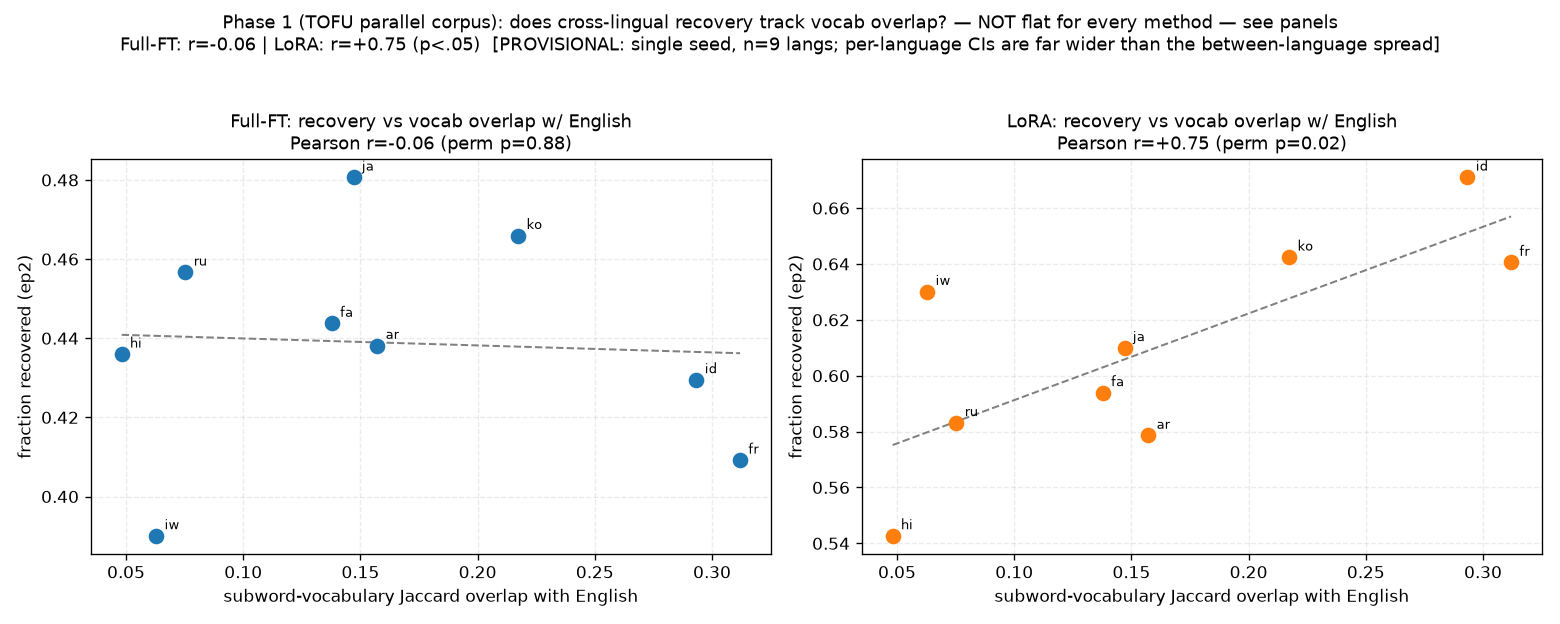
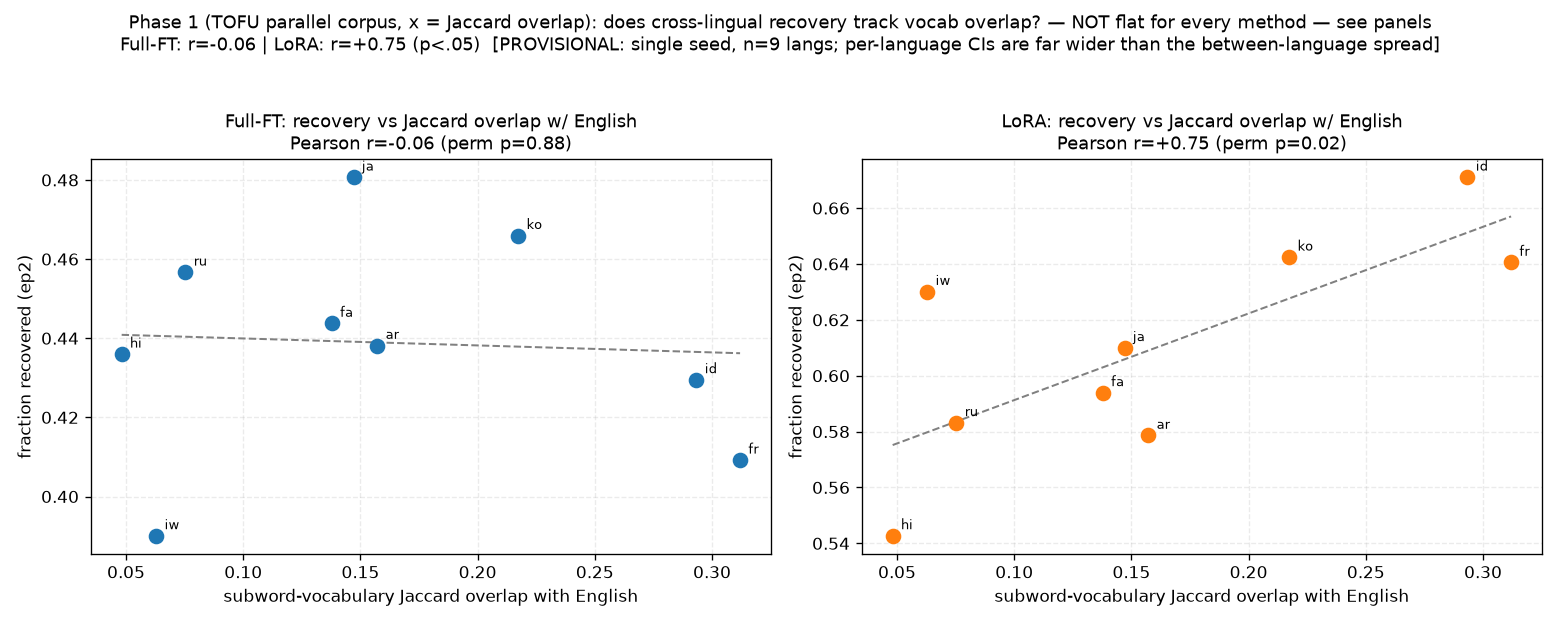
phase1: plot the overlap coefficient as its own axis
The LoRA-vs-Jaccard correlation (r=+0.75 TOFU / +0.70 FLORES, both p<.05) is the one
Phase 1 result that looks like a finding, and the reason to distrust it was buried as a
number in a table: swap Jaccard's union denominator for min(|A|,|B|) and it collapses to
+0.04 / +0.10 on the same corpus, same tokenizer, same recovery values. That argument
deserves a panel.

Added --axis jaccard|overlap to both scatter scripts rather than forking them, so the two
denominators are plotted by identical code and cannot drift apart. Default is unchanged
and still writes the original filenames; --axis overlap writes
phase1_overlap_coef{,_flores}.png.

Under the overlap coefficient BOTH panels are flat on BOTH corpora (TOFU +0.04/+0.04,
FLORES -0.28/+0.10), and the headline flips itself to "flat for both" because the verdict
is computed, not asserted. The leverage objection also does not transfer: the overlap
coefficient spreads the languages across 0.22-0.66 (TOFU) instead of jamming seven of
nine below 0.07, so these panels are not two points pulling a line.

Hindi is the whole argument in one point -- lowest Jaccard in the set (0.048) and nearly
the highest overlap coefficient (0.656), same intersection, opposite ranking. A result
that survives only one denominator is a result about the denominator.

Claude-Session: https://claude.ai/code/session_01EURqZL7jd7Jw7i1NWkFUF5

Changed region(s): [[0.0923, 0.0, 0.9231, 0.0609], [0.1231, 0.1827, 0.4, 0.2131], [0.6462, 0.1827, 0.8923, 0.2131]]

diff --git a/studies/crosslingual_recovery/plots/phase1_vocab_overlap.py b/studies/crosslingual_recovery/plots/phase1_vocab_overlap.py
@@ -25,9 +25,19 @@ a table, and scatter plots -> figures/phase1_vocab_overlap.png.
 CAVEAT (from the plan): recovery is single-seed, n=10 languages -> low power. Treat
 r/p as PROVISIONAL until the item-8 bootstrap CIs land; this is the first pass.
 
-    python studies/crosslingual_recovery/plots/phase1_vocab_overlap.py
+
+AXIS (--axis jaccard|overlap). Jaccard is CLC's Eq. 7 and the default. The OVERLAP
+COEFFICIENT |A n B| / min(|A|,|B|) is the same intersection under a different denominator,
+and it is where the LoRA correlation dies (r=+0.75 -> +0.04 here; +0.70 -> +0.10 on
+FLORES). Jaccard's union denominator penalises a language for owning many tokens English
+never uses, so it partly scores VOCABULARY SIZE rather than sharing -- Hindi is the
+clearest case, lowest Jaccard in the set but near the top on the overlap coefficient.
+Plotting both is the robustness check: a result that holds under only one denominator is
+a result about the denominator.
+
+    python studies/crosslingual_recovery/plots/phase1_vocab_overlap.py [--axis overlap]
 """
-import json, sys, random, math
+import argparse, json, sys, random, math
 from pathlib import Path
 
 _r = Path(__file__).resolve()
@@ -114,7 +124,15 @@ def perm_p(x, y, stat=pearson, B=10000):
     return c / B
 
 
-def main():
+AXIS_META = {
+    "jaccard": ("jac", "subword-vocabulary Jaccard overlap with English",
+                "Jaccard overlap", "phase1_vocab_overlap.png"),
+    "overlap": ("ovl", "subword-vocab OVERLAP COEFFICIENT with English  |A n B| / min(|A|,|B|)",
+                "overlap coefficient", "phase1_overlap_coef.png"),
+}
+
+
+def main(axis="jaccard"):
     if not MERGED.exists():
         print("missing parallel corpus:", MERGED); return
     V = vocab_sets()
@@ -151,41 +169,45 @@ def main():
     import matplotlib
     matplotlib.use("Agg")
     import matplotlib.pyplot as plt
+    X = {"jaccard": jac, "overlap": ovl}[axis]
+    _key, xlabel, short, fname = AXIS_META[axis]
     fig, axs = plt.subplots(1, 2, figsize=(13, 5.2))
     for ax, m in zip(axs, FILES):
-        x = [jac[l] for l in LANGS]; y = [rec[m][l] for l in LANGS]
+        x = [X[l] for l in LANGS]; y = [rec[m][l] for l in LANGS]
         ax.scatter(x, y, s=70, color="#1f77b4" if m == "Full-FT" else "#ff7f0e", zorder=3)
         for l in LANGS:
-            ax.annotate(l, (jac[l], rec[m][l]), textcoords="offset points", xytext=(5, 4), fontsize=8)
+            ax.annotate(l, (X[l], rec[m][l]), textcoords="offset points", xytext=(5, 4), fontsize=8)
         # least-squares fit line
         n = len(x); mx = sum(x)/n; my = sum(y)/n
         b1 = sum((a-mx)*(c-my) for a, c in zip(x, y)) / sum((a-mx)**2 for a in x)
         b0 = my - b1*mx
         xs = [min(x), max(x)]; ax.plot(xs, [b0+b1*v for v in xs], "--", color="grey", lw=1.2)
-        ax.set_title(f"{m}: recovery vs vocab overlap w/ English\n"
+        ax.set_title(f"{m}: recovery vs {short} w/ English\n"
                      f"Pearson r={pearson(x,y):+.2f} (perm p={perm_p(x,y):.2f})", fontsize=11)
-        ax.set_xlabel("subword-vocabulary Jaccard overlap with English", fontsize=10)
+        ax.set_xlabel(xlabel, fontsize=10)
         ax.set_ylabel("fraction recovered (ep2)", fontsize=10)
         ax.grid(True, alpha=0.25, ls="--"); ax.set_axisbelow(True)
     # The headline follows the PANELS. It previously asserted "flat line => interlingua"
     # above a right-hand panel showing r=+0.75 at p=0.02 -- a figure arguing with itself.
-    rs = {m: (pearson([jac[l] for l in LANGS], [rec[m][l] for l in LANGS]),
-              perm_p([jac[l] for l in LANGS], [rec[m][l] for l in LANGS])) for m in FILES}
+    rs = {m: (pearson([X[l] for l in LANGS], [rec[m][l] for l in LANGS]),
+              perm_p([X[l] for l in LANGS], [rec[m][l] for l in LANGS])) for m in FILES}
     flat = all(pv >= 0.05 for _, pv in rs.values())
     lead = ("flat for both => recovery not explained by vocab-sharing"
             if flat else "NOT flat for every method — see panels")
     detail = " | ".join(f"{m}: r={r:+.2f}" + ("" if pv >= 0.05 else " (p<.05)")
                         for m, (r, pv) in rs.items())
-    fig.suptitle("Phase 1 (TOFU parallel corpus): does cross-lingual recovery track vocab "
-                 f"overlap? — {lead}\n{detail}  [PROVISIONAL: single seed, n=9 langs; "
+    fig.suptitle(f"Phase 1 (TOFU parallel corpus, x = {short}): does cross-lingual recovery "
+                 f"track vocab overlap? — {lead}\n{detail}  [PROVISIONAL: single seed, n=9 langs; "
                  "per-language CIs are far wider than the between-language spread]",
                  fontsize=11)
     fig.tight_layout(rect=(0, 0, 1, 0.95))
     FIGS.mkdir(parents=True, exist_ok=True)
-    out = FIGS / "phase1_vocab_overlap.png"
+    out = FIGS / fname
     fig.savefig(out, dpi=120)
     print(f"\nscatter -> {out}")
 
 
 if __name__ == "__main__":
-    main()
+    _a = argparse.ArgumentParser(description=__doc__.split("\n")[0])
+    _a.add_argument("--axis", choices=list(AXIS_META), default="jaccard")
+    main(_a.parse_args().axis)

diff --git a/studies/crosslingual_recovery/plots/phase1_vocab_overlap_flores.py b/studies/crosslingual_recovery/plots/phase1_vocab_overlap_flores.py
@@ -20,12 +20,19 @@ Inputs (all LOCAL, CPU-only — runs on the login node; tokenizer needs no torch
   - Qwen3 tokenizer.
   - recovery: results/relearn/crosslingual_deep/ (fraction recovered at ep2).
 
-    python studies/crosslingual_recovery/plots/phase1_vocab_overlap_flores.py
+AXIS (--axis jaccard|overlap). Jaccard is CLC's Eq. 7 and the default. The OVERLAP
+COEFFICIENT |A n B| / min(|A|,|B|) is the same intersection under a different denominator,
+and it is where the LoRA correlation dies (r=+0.70 -> +0.10 here). Jaccard's union
+denominator penalises a language for owning many tokens English never uses, so it partly
+scores VOCABULARY SIZE rather than sharing. A result holding under only one denominator is
+a result about the denominator -- plotting both is the robustness check.
+
+    python studies/crosslingual_recovery/plots/phase1_vocab_overlap_flores.py [--axis overlap]
 
 CAVEAT: recovery is single-seed, n=9 langs -> low power. Provisional until the
 item-8 bootstrap CIs land.
 """
-import json, sys, random, math
+import argparse, json, sys, random, math
 from pathlib import Path
 
 _r = Path(__file__).resolve()
@@ -108,7 +115,15 @@ def perm_p(x, y, stat=pearson, B=10000):
     return c / B
 
 
-def main():
+AXIS_META = {
+    "jaccard": ("subword-vocab Jaccard overlap w/ English (FLORES-200, CLC Eq.7)",
+                "FLORES Jaccard overlap", "phase1_vocab_overlap_flores.png"),
+    "overlap": ("subword-vocab OVERLAP COEFFICIENT w/ English (FLORES-200)  |A n B| / min(|A|,|B|)",
+                "FLORES overlap coefficient", "phase1_overlap_coef_flores.png"),
+}
+
+
+def main(axis="jaccard"):
     if not FLORES.exists():
         print("missing FLORES at", FLORES); return
     tok = AutoTokenizer.from_pretrained("Qwen/Qwen3-8B")
@@ -148,20 +163,22 @@ def main():
     import matplotlib
     matplotlib.use("Agg")
     import matplotlib.pyplot as plt
+    X = {"jaccard": jac, "overlap": ovl}[axis]
+    xlabel, short, fname = AXIS_META[axis]
     fig, axs = plt.subplots(1, 2, figsize=(13, 5.2))
     rs = {}
     for ax, m in zip(axs, FILES):
-        x = [jac[l] for l in LANGS]; y = [rec[m][l] for l in LANGS]
+        x = [X[l] for l in LANGS]; y = [rec[m][l] for l in LANGS]
         ax.scatter(x, y, s=70, color="#1f77b4" if m == "Full-FT" else "#ff7f0e", zorder=3)
         for l in LANGS:
-            ax.annotate(l, (jac[l], rec[m][l]), textcoords="offset points", xytext=(5, 4), fontsize=8)
+            ax.annotate(l, (X[l], rec[m][l]), textcoords="offset points", xytext=(5, 4), fontsize=8)
         n = len(x); mx = sum(x)/n; my = sum(y)/n
         b1 = sum((a-mx)*(c-my) for a, c in zip(x, y)) / sum((a-mx)**2 for a in x); b0 = my - b1*mx
         xs = [min(x), max(x)]; ax.plot(xs, [b0+b1*v for v in xs], "--", color="grey", lw=1.2)
         rs[m] = (pearson(x, y), perm_p(x, y))
-        ax.set_title(f"{m}: recovery vs FLORES Jaccard overlap w/ English\n"
+        ax.set_title(f"{m}: recovery vs {short} w/ English\n"
                      f"Pearson r={rs[m][0]:+.2f} (perm p={rs[m][1]:.2f})", fontsize=11)
-        ax.set_xlabel("subword-vocab Jaccard overlap w/ English (FLORES-200, CLC Eq.7)", fontsize=10)
+        ax.set_xlabel(xlabel, fontsize=10)
         ax.set_ylabel("fraction recovered (ep2)", fontsize=10)
         ax.grid(True, alpha=0.25, ls="--"); ax.set_axisbelow(True)
     # The verdict has to follow the PANELS, not a fixed claim: Full-FT is flat but LoRA
@@ -172,16 +189,18 @@ def main():
     flat = all(pv >= 0.05 for _, pv in rs.values())
     lead = ("flat for both => recovery not explained by vocab-sharing"
             if flat else "NOT flat for every method — see panels")
-    fig.suptitle("Phase 1 (FLORES-200, CLC-faithful): recovery vs subword overlap — "
+    fig.suptitle(f"Phase 1 (FLORES-200, x = {short}): recovery vs subword overlap — "
                  f"{lead}\n{verdict}  [PROVISIONAL: single seed, n=9 langs; "
                  "per-language CIs are far wider than the between-language spread]",
                  fontsize=11)
     fig.tight_layout(rect=(0, 0, 1, 0.95))
     FIGS.mkdir(parents=True, exist_ok=True)
-    out = FIGS / "phase1_vocab_overlap_flores.png"
+    out = FIGS / fname
     fig.savefig(out, dpi=120)
     print("\nscatter ->", out)
 
 
 if __name__ == "__main__":
-    main()
+    _a = argparse.ArgumentParser(description=__doc__.split("\n")[0])
+    _a.add_argument("--axis", choices=list(AXIS_META), default="jaccard")
+    main(_a.parse_args().axis)

diff --git a/studies/crosslingual_recovery/README.md b/studies/crosslingual_recovery/README.md
@@ -56,6 +56,13 @@ The LoRA correlation **is not trustworthy** and must be reported with its caveat
 collapses to r=+0.10 under a different overlap definition, two languages carry most of
 the leverage, and it is 1 of 8 uncorrected tests.
 
+That collapse now has its own figures — `phase1_overlap_coef{,_flores}.png`, produced by
+the same two scripts with `--axis overlap`. **Under the overlap coefficient both panels are
+flat on both corpora** (TOFU r=+0.04/+0.04, FLORES r=−0.28/+0.10), and the x-axis is far
+better spread than Jaccard's, so the leverage objection does not apply to them either.
+Hindi is the visual argument: lowest Jaccard in the set, near the highest overlap
+coefficient.
+
 **Provenance:** from CLC (Qi et al. 2023) we took **only** the Eq. 7 subword-Jaccard
 metric and the **FLORES-200** corpus — not their pipeline, models, or RankC measure.
 The **overlap coefficient** (Szymkiewicz–Simpson) is this repo's own robustness check.
